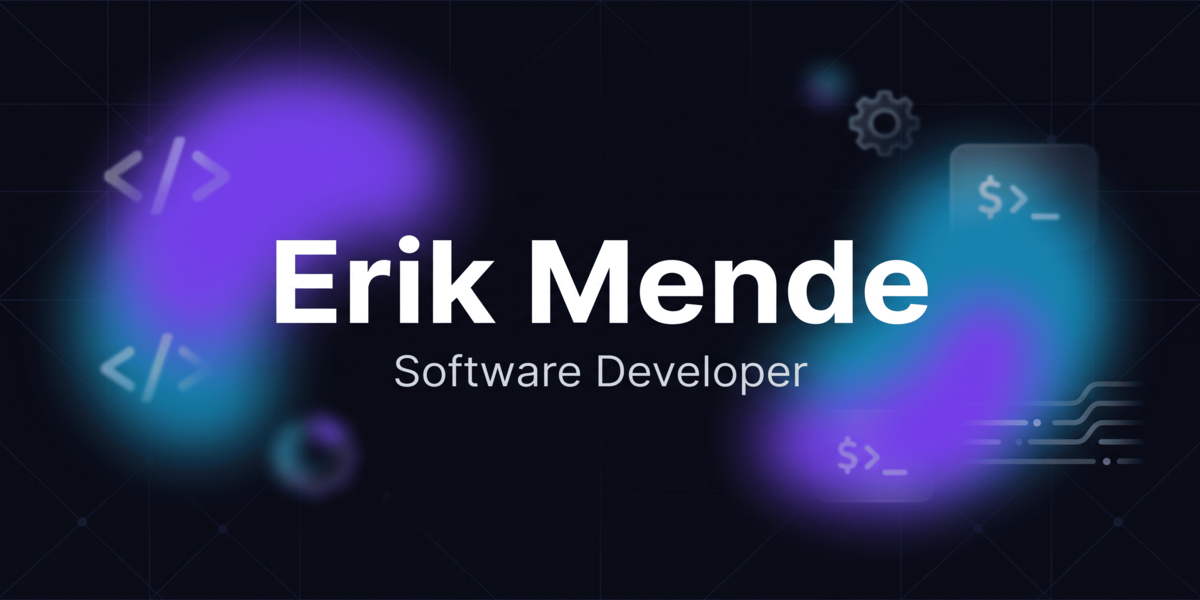
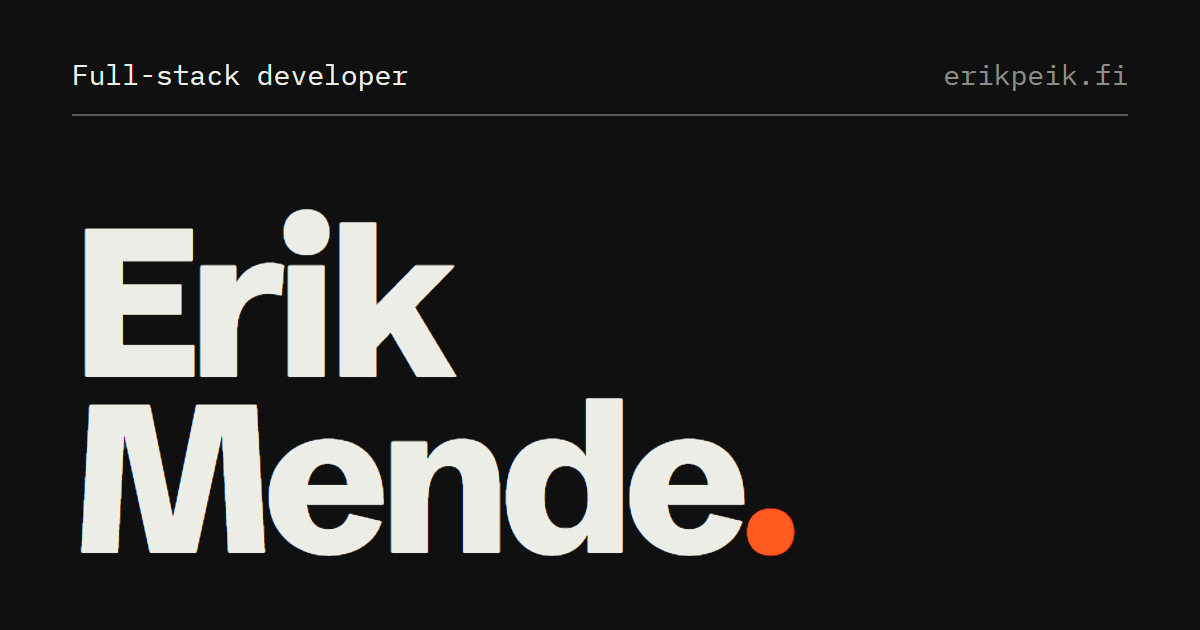
feat: new link preview image in the site's style
Replace the old gradient og-image with a 1200x630 version matching the
redesign, add og:image width/height/alt, and bust social caches with
?v=2 on the image URL.

diff --git a/en/index.html b/en/index.html
@@ -34,8 +34,11 @@
     <meta property="og:url" content="https://www.erikpeik.fi/en" />
     <meta
       property="og:image"
-      content="https://www.erikpeik.fi/images/og-image.png"
+      content="https://www.erikpeik.fi/images/og-image.png?v=2"
     />
+    <meta property="og:image:width" content="1200" />
+    <meta property="og:image:height" content="630" />
+    <meta property="og:image:alt" content="Erik Mende — Full-stack developer" />
     <meta property="og:locale" content="en_US" />
     <meta property="og:locale:alternate" content="fi_FI" />
     <meta property="og:site_name" content="Erik Mende" />
@@ -52,7 +55,7 @@
     />
     <meta
       name="twitter:image"
-      content="https://www.erikpeik.fi/images/og-image.png"
+      content="https://www.erikpeik.fi/images/og-image.png?v=2"
     />
 
     <!-- Fonts -->

diff --git a/index.html b/index.html
@@ -34,8 +34,11 @@
     <meta property="og:url" content="https://www.erikpeik.fi/" />
     <meta
       property="og:image"
-      content="https://www.erikpeik.fi/images/og-image.png"
+      content="https://www.erikpeik.fi/images/og-image.png?v=2"
     />
+    <meta property="og:image:width" content="1200" />
+    <meta property="og:image:height" content="630" />
+    <meta property="og:image:alt" content="Erik Mende — Full-stack developer" />
     <meta property="og:locale" content="fi_FI" />
     <meta property="og:locale:alternate" content="en_US" />
     <meta property="og:site_name" content="Erik Mende" />
@@ -52,7 +55,7 @@
     />
     <meta
       name="twitter:image"
-      content="https://www.erikpeik.fi/images/og-image.png"
+      content="https://www.erikpeik.fi/images/og-image.png?v=2"
     />
 
     <!-- Fonts -->
